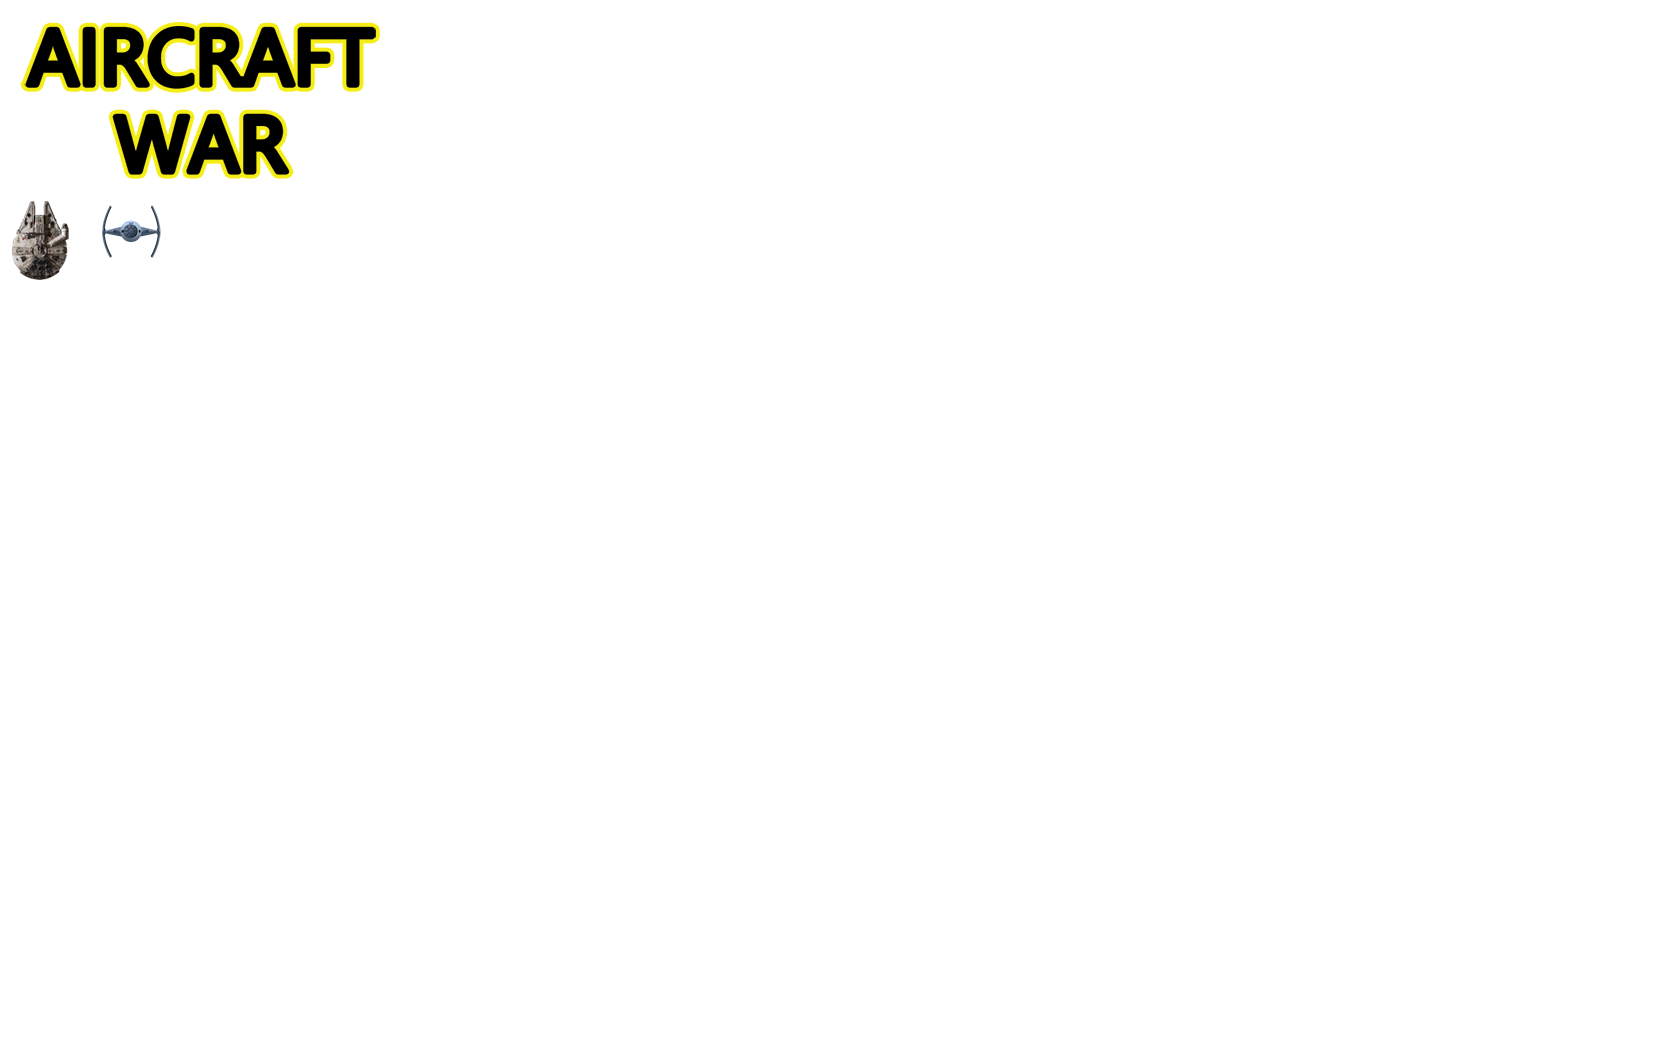
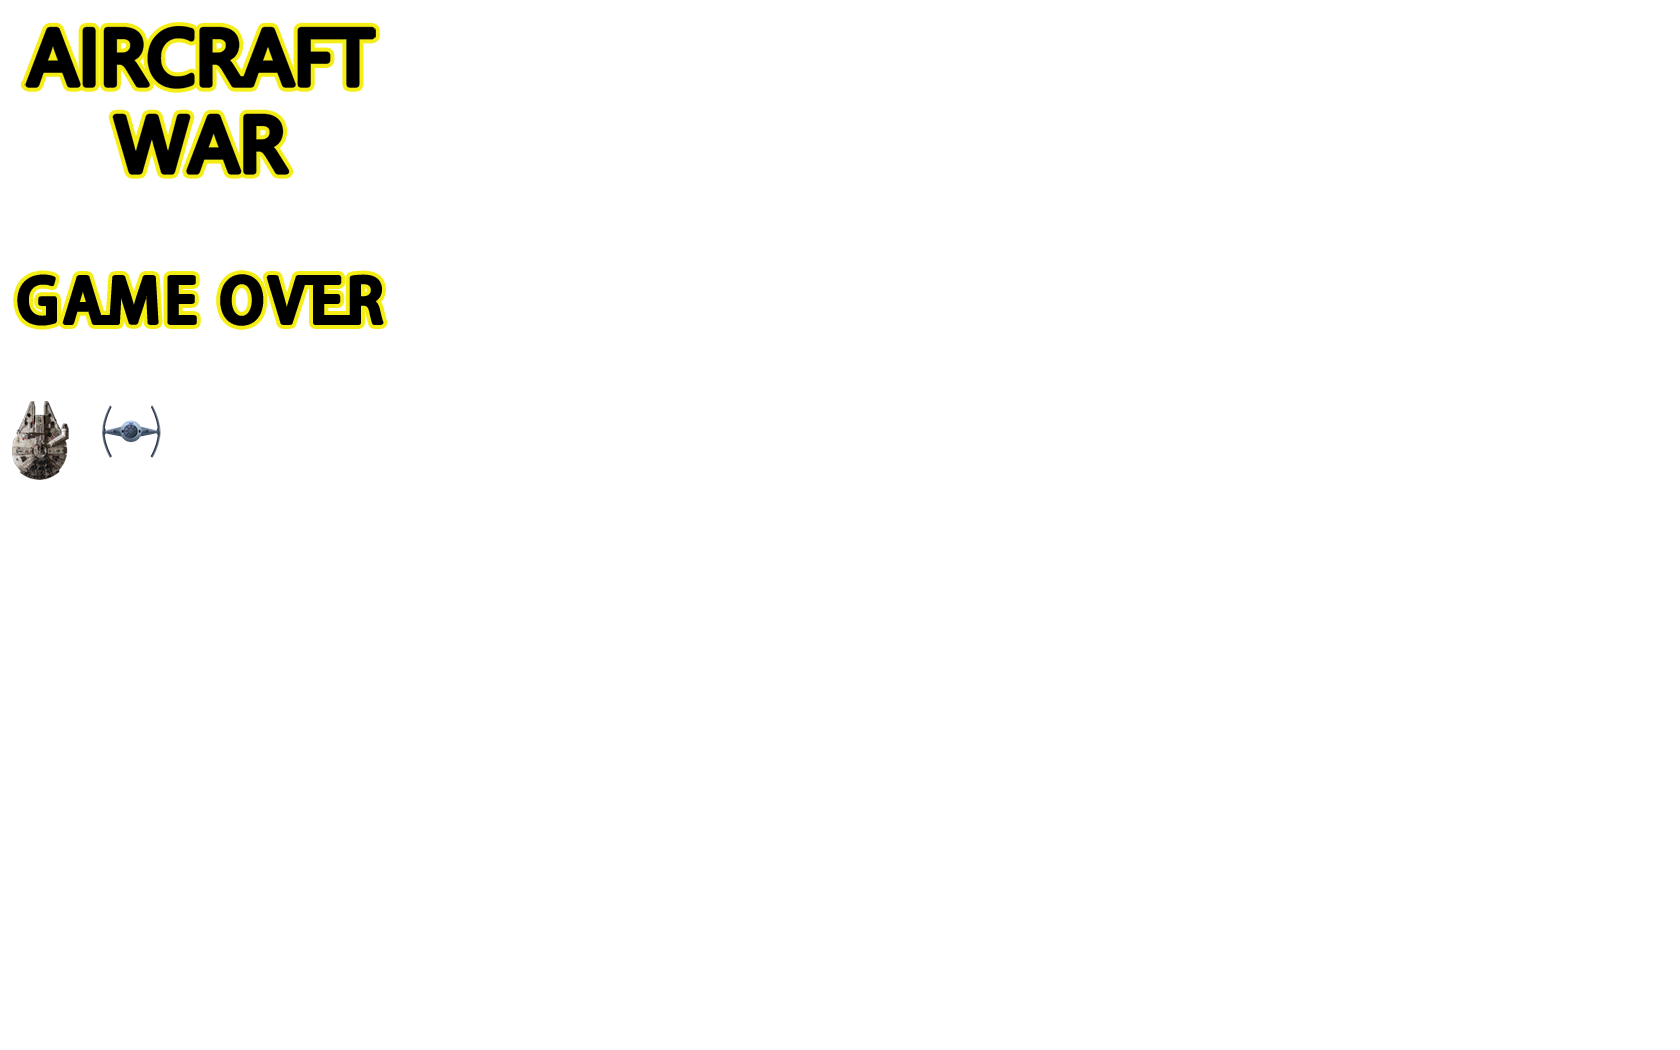
完善循环

Changed region(s): [[0.0, 0.1829, 0.2476, 0.3352], [0.0, 0.3657, 0.0929, 0.4571]]

diff --git a/aircraftWar/aircraftWar.js b/aircraftWar/aircraftWar.js
@@ -108,8 +108,10 @@ function gameloop() {
 }
 
 function gameover() {
-  console.log('over');
-  data.system.start = false;
+  setTimeout(function() {
+    data.system.start = false;
+  }, 500);
+
   if (data.system.mobile) {
     canvas.addEventListener('touchend', init, false);
   } else {
@@ -140,7 +142,10 @@ function StartText() {
   this.firstGame = true;
   this.picState = 1; //0下降，1上升
   this.textState = 0; //0减弱，1增强
-  this.position = [0, 0];
+  this.position = [
+    [0, 0],
+    [0, 200]
+  ];
 
   this.textAlpahChange = function() {
     if (this.textState) {
@@ -174,9 +179,9 @@ function StartText() {
     cxt.save();
     cxt.translate(this.x, this.y);
     if (this.firstGame) {
-      cxt.drawImage(data.image, this.position[0], this.position[1], 400, 200, -200, -100, 400, 200);
+      cxt.drawImage(data.image, this.position[0][0], this.position[0][1], 400, 200, -200, -100, 400, 200);
     } else {
-      cxt.fillText("FAIL", 200, 200);
+      cxt.drawImage(data.image, this.position[1][0], this.position[1][1], 400, 200, -200, -100, 400, 200);
     }
     cxt.restore();
 
@@ -375,7 +380,7 @@ function MillenniumFalcon() {
 
     cxt.save();
     cxt.translate(this.x, this.y); //坐标原点位于飞机中心
-    cxt.drawImage(data.image, 0, 200, this.width, this.height, -this.width / 2, -this.height / 2, this.width, this.height);
+    cxt.drawImage(data.image, 0, 400, this.width, this.height, -this.width / 2, -this.height / 2, this.width, this.height);
     cxt.restore();
   }
   this.infoDraw = function(cxt) {
@@ -493,7 +498,7 @@ function HostileAirplane() {
       cxt.save();
       cxt.translate(this.airplane[i].x, this.airplane[i].y); //坐标原点位于飞机中心
       cxt.rotate(this.airplane[i].rotate * Math.PI / 180);
-      cxt.drawImage(data.image, 100, 200, 60, 60, -30, -30, 40, 40);
+      cxt.drawImage(data.image, 100, 400, 60, 60, -30, -30, 40, 40);
       cxt.restore();
     }
   }
